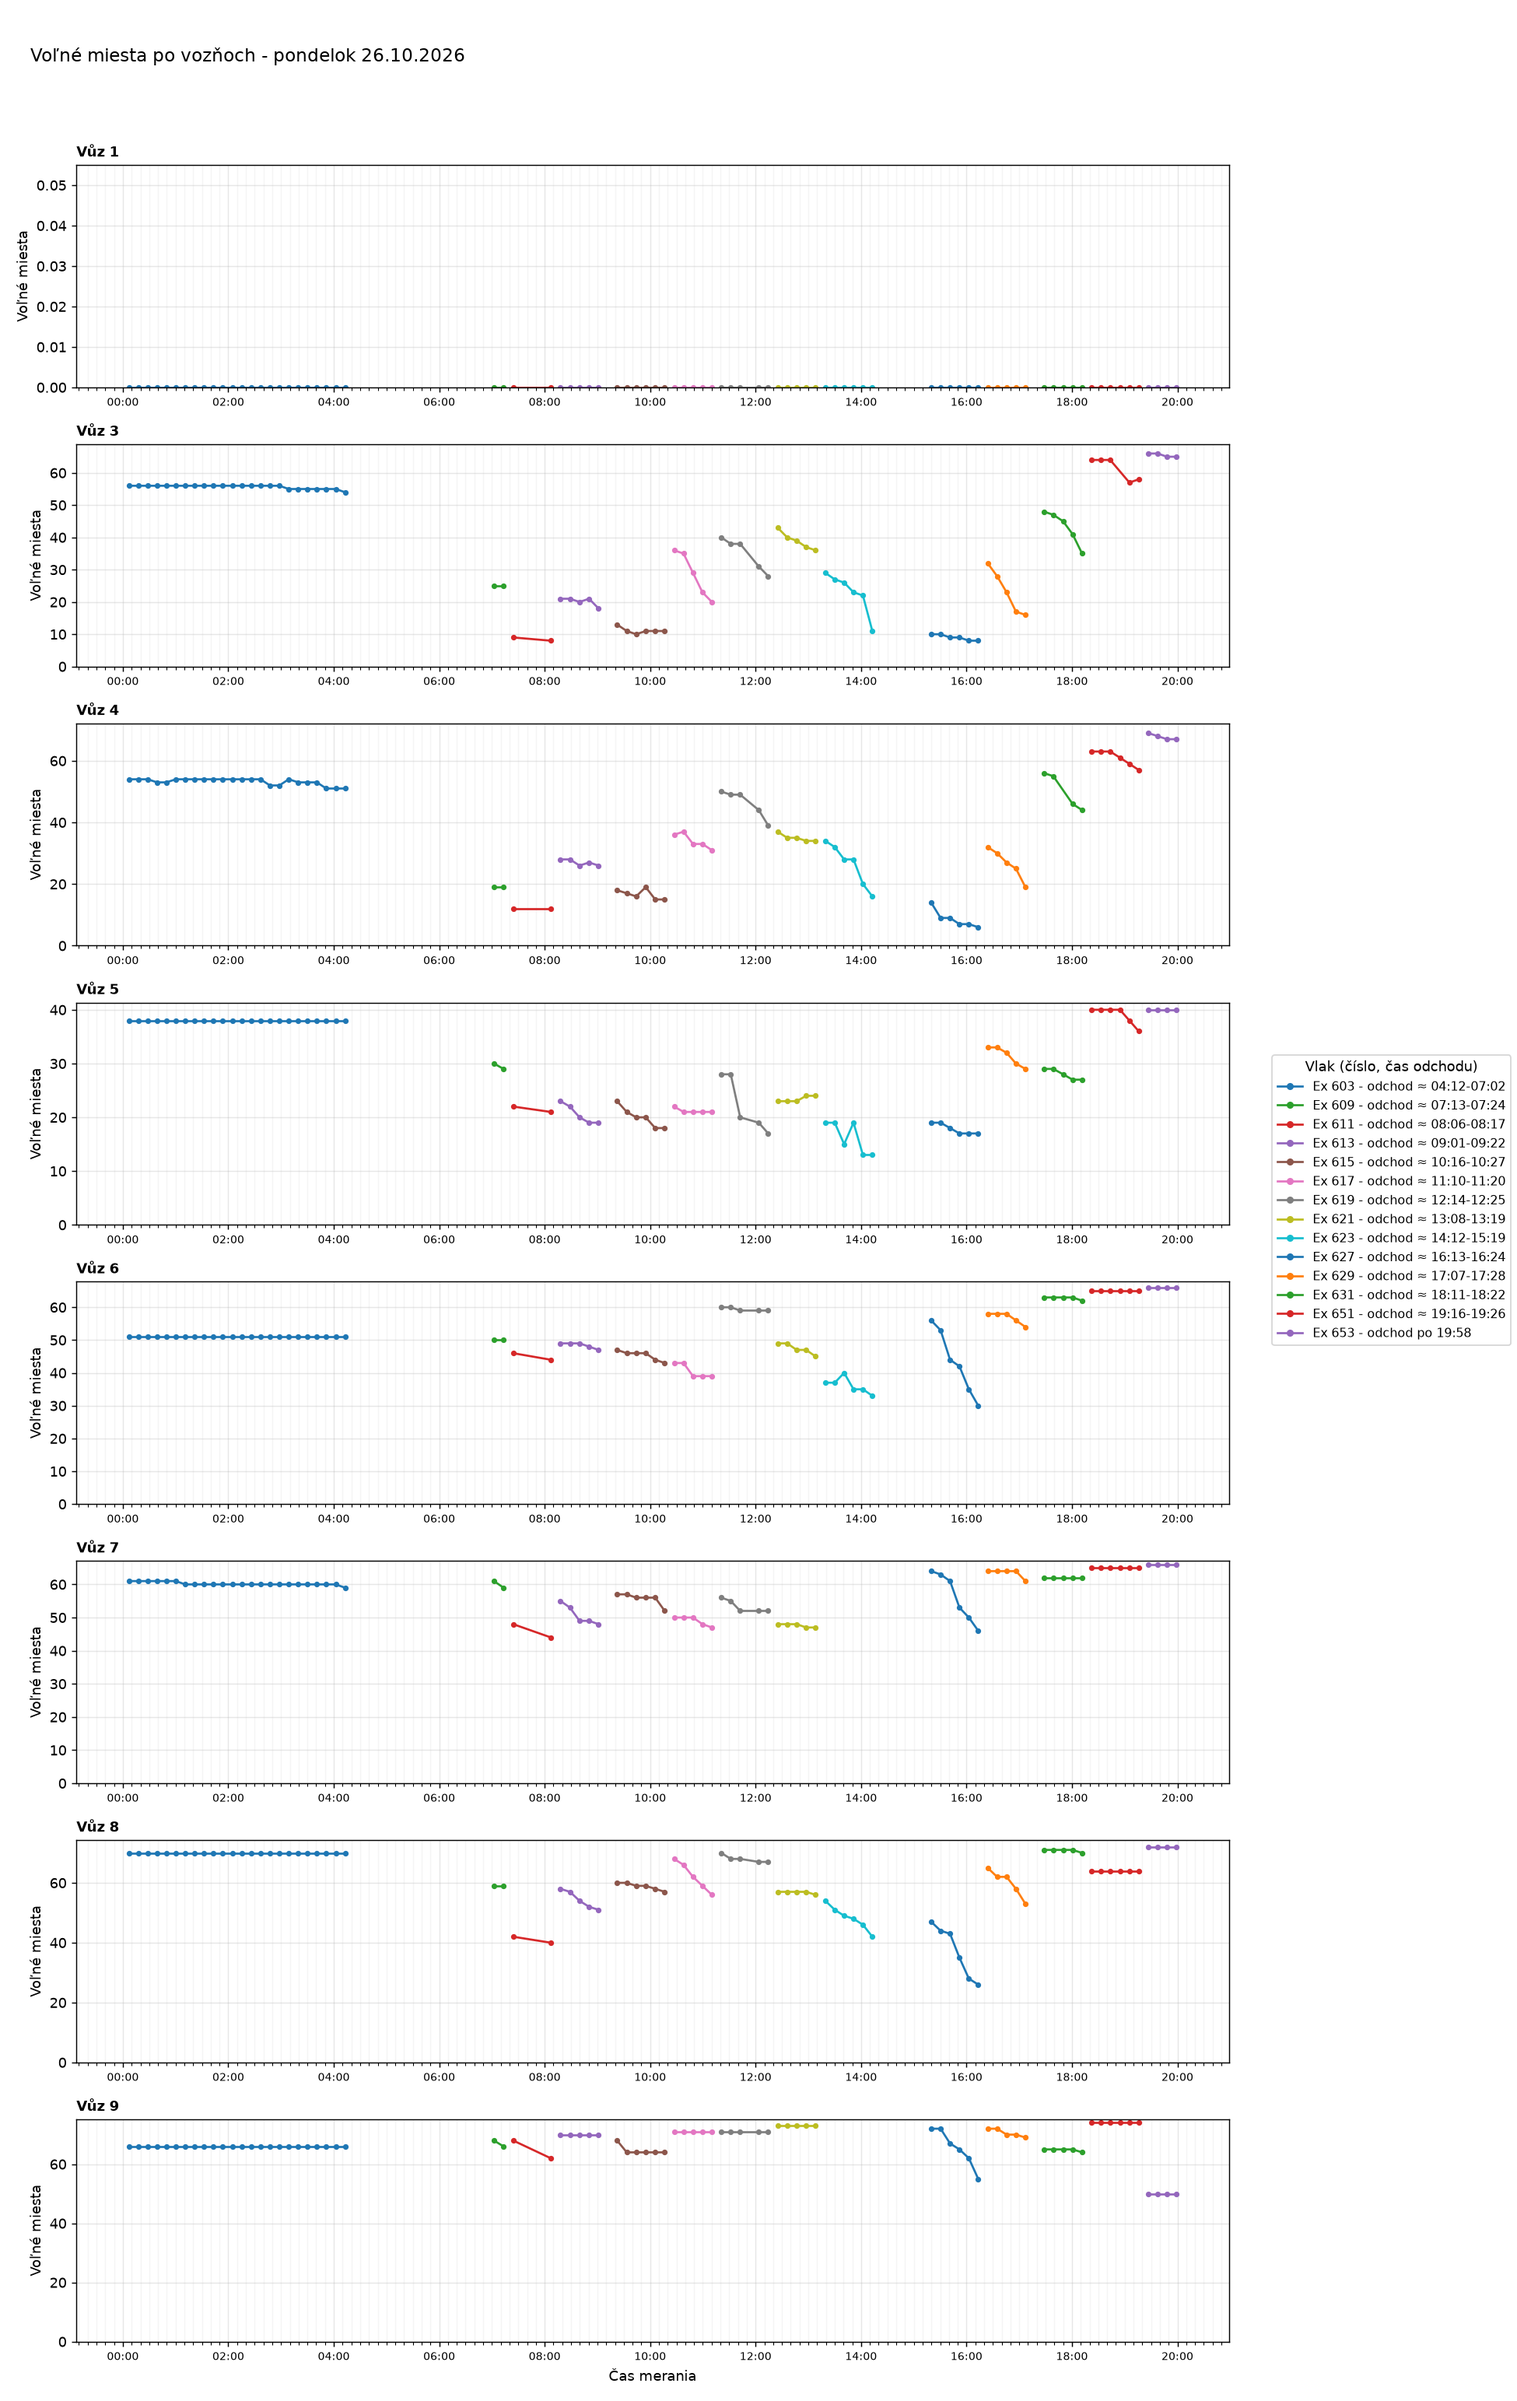
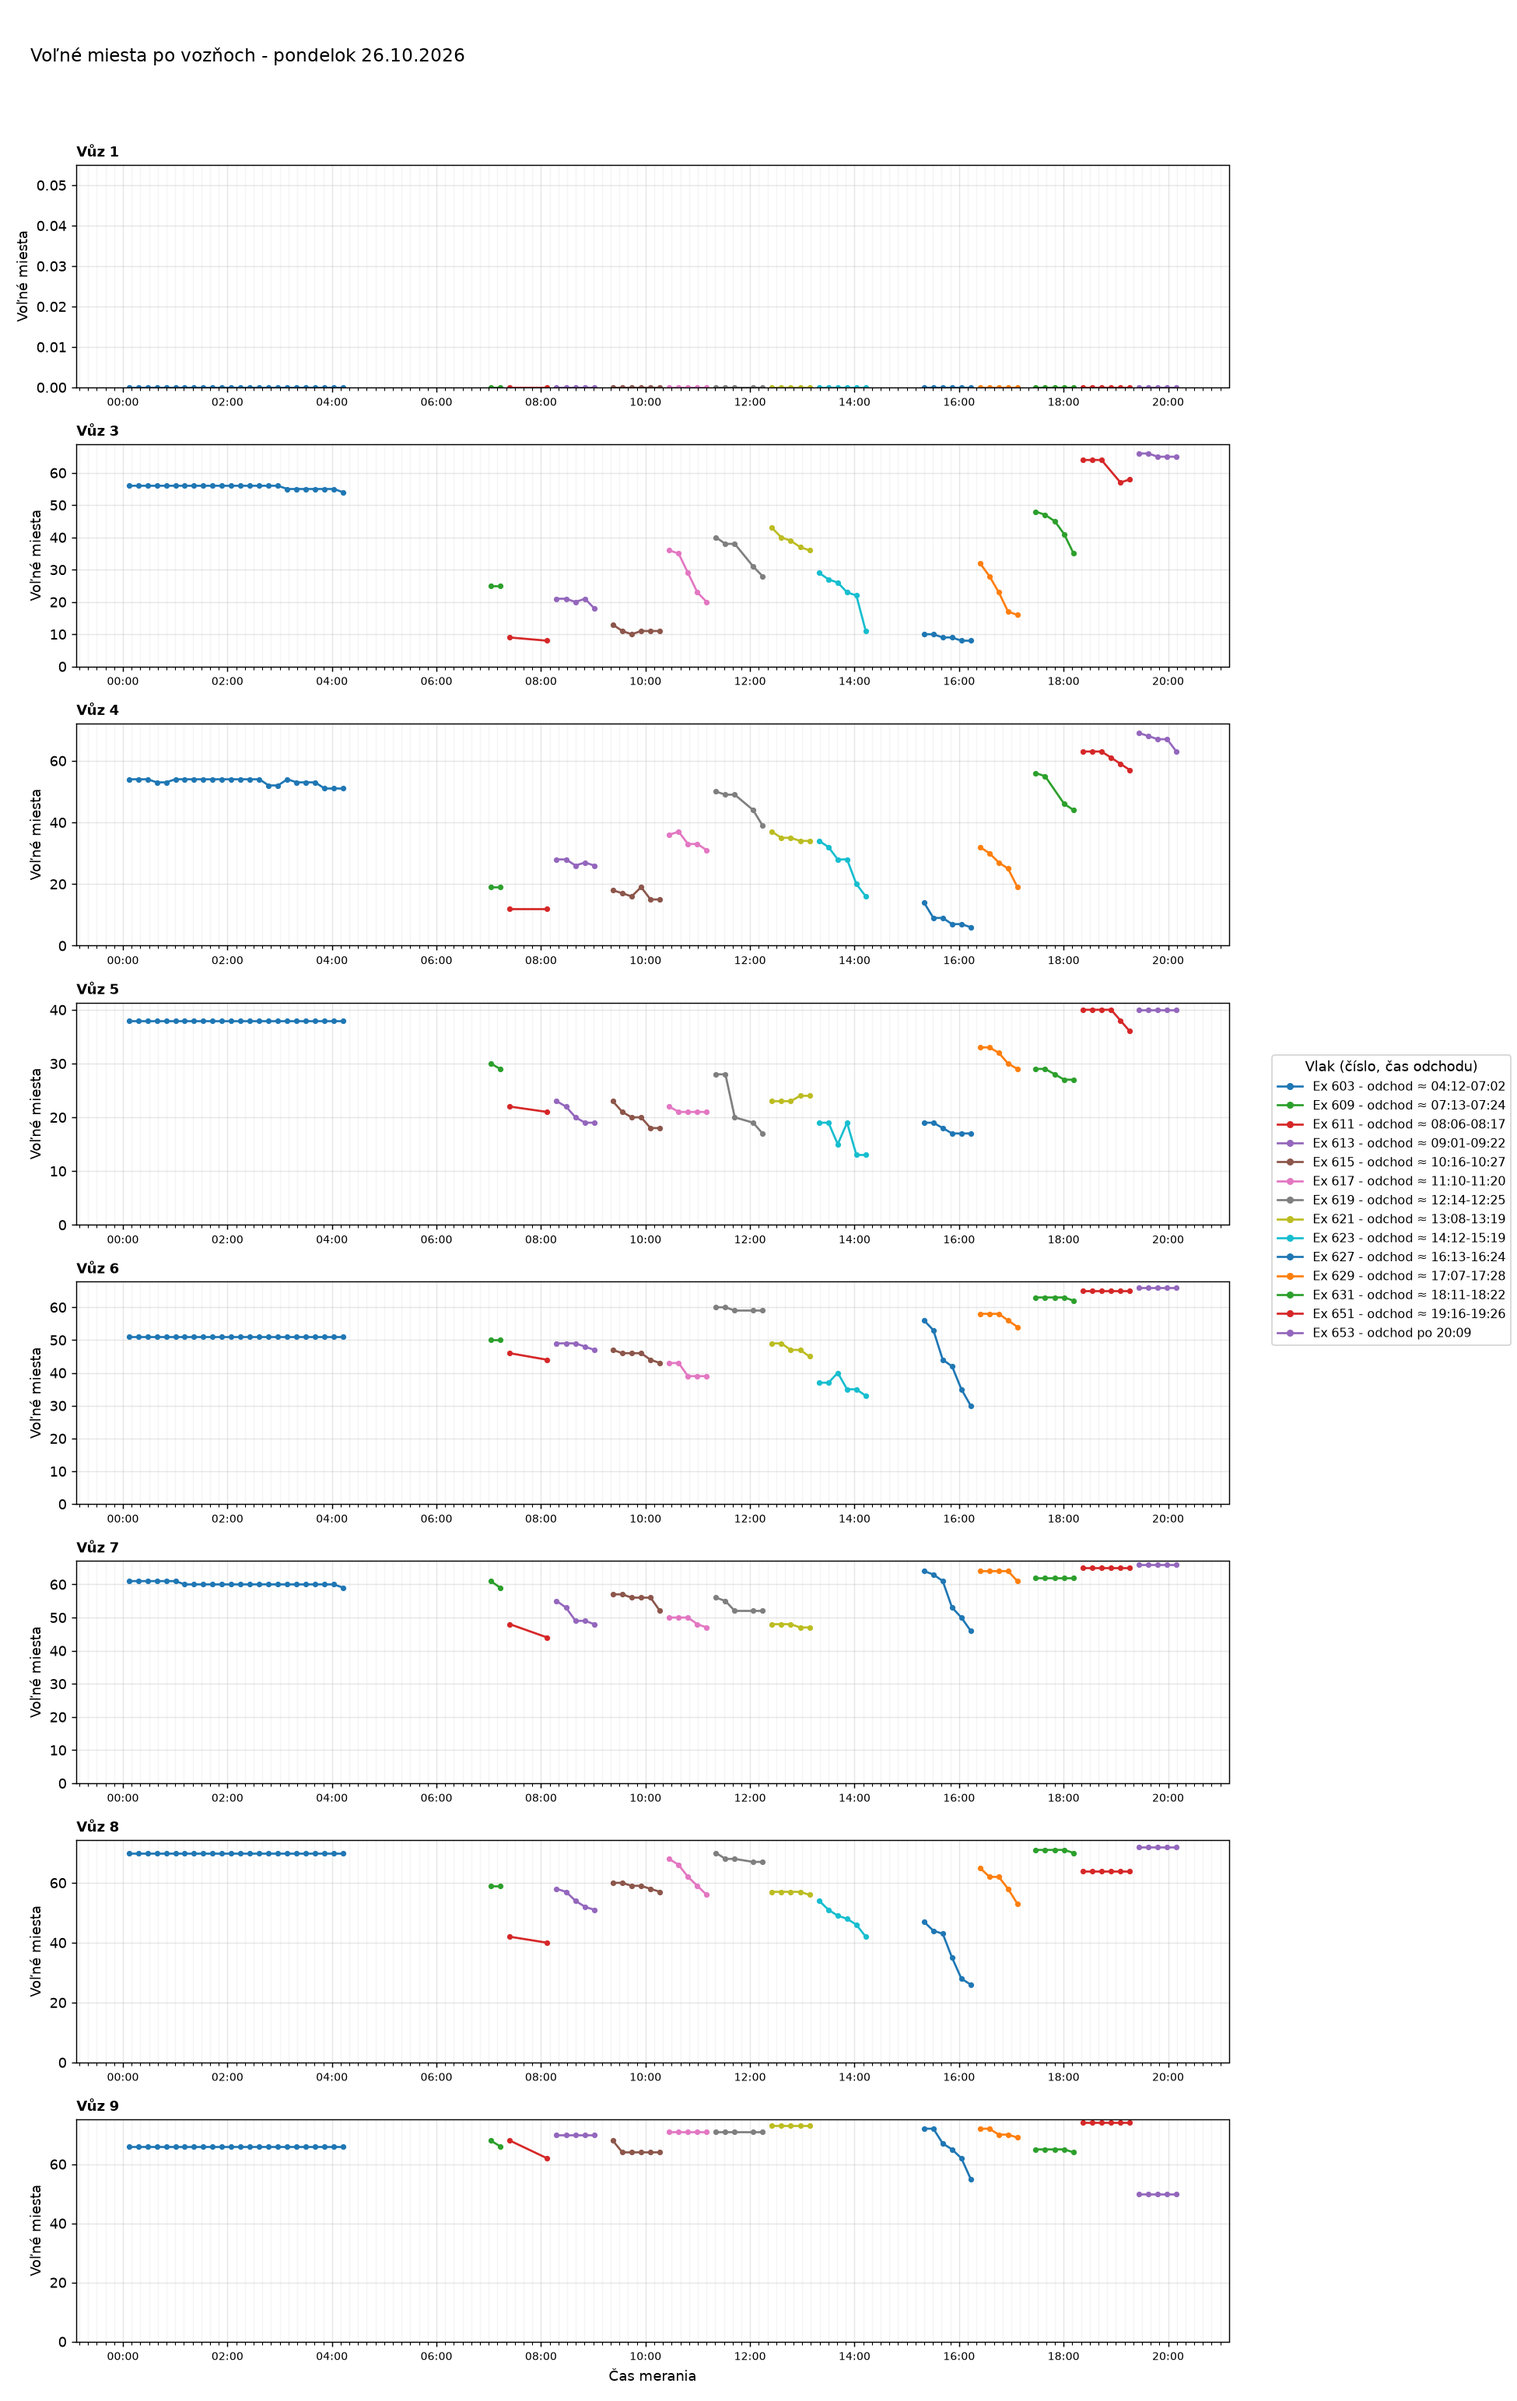
Aktualizácia grafov 2026-10-26 21:10

diff --git a/index.html b/index.html
@@ -35,7 +35,7 @@ h2.oddiel{margin:36px 0 0;font-size:1.4rem}
 <body>
 <main>
 <h1>Voľné miesta vo vlakoch</h1>
-<p class="muted">Posledné meranie: 26.10.2026 19:58 ·
+<p class="muted">Posledné meranie: 26.10.2026 20:09 ·
 <a href="data/obsadenost_data.csv">stiahnuť dáta (CSV)</a></p>
 <nav class="nav"><a href="#suhrn">Súhrn</a><a href="#statistiky">Štatistiky</a><a href="#historia">História grafov</a></nav>
 
@@ -44,7 +44,7 @@ h2.oddiel{margin:36px 0 0;font-size:1.4rem}
 <div class="tablewrap"><table>
 <thead><tr><th>Deň</th><th>Meraní</th><th>Vlakov</th><th>Čas meraní</th></tr></thead>
 <tbody>
-<tr><td><a href="#d2026-10-26">pondelok 26.10.2026</a></td><td>86</td><td>14</td><td>00:06-19:58</td></tr>
+<tr><td><a href="#d2026-10-26">pondelok 26.10.2026</a></td><td>87</td><td>14</td><td>00:06-20:09</td></tr>
 <tr><td><a href="#d2026-10-25">nedeľa 25.10.2026</a></td><td>101</td><td>15</td><td>00:01-23:56</td></tr>
 <tr><td><a href="#d2026-10-24">sobota 24.10.2026</a></td><td>98</td><td>14</td><td>00:10-23:50</td></tr>
 <tr><td><a href="#d2026-10-23">piatok 23.10.2026</a></td><td>64</td><td>13</td><td>07:25-23:49</td></tr>
